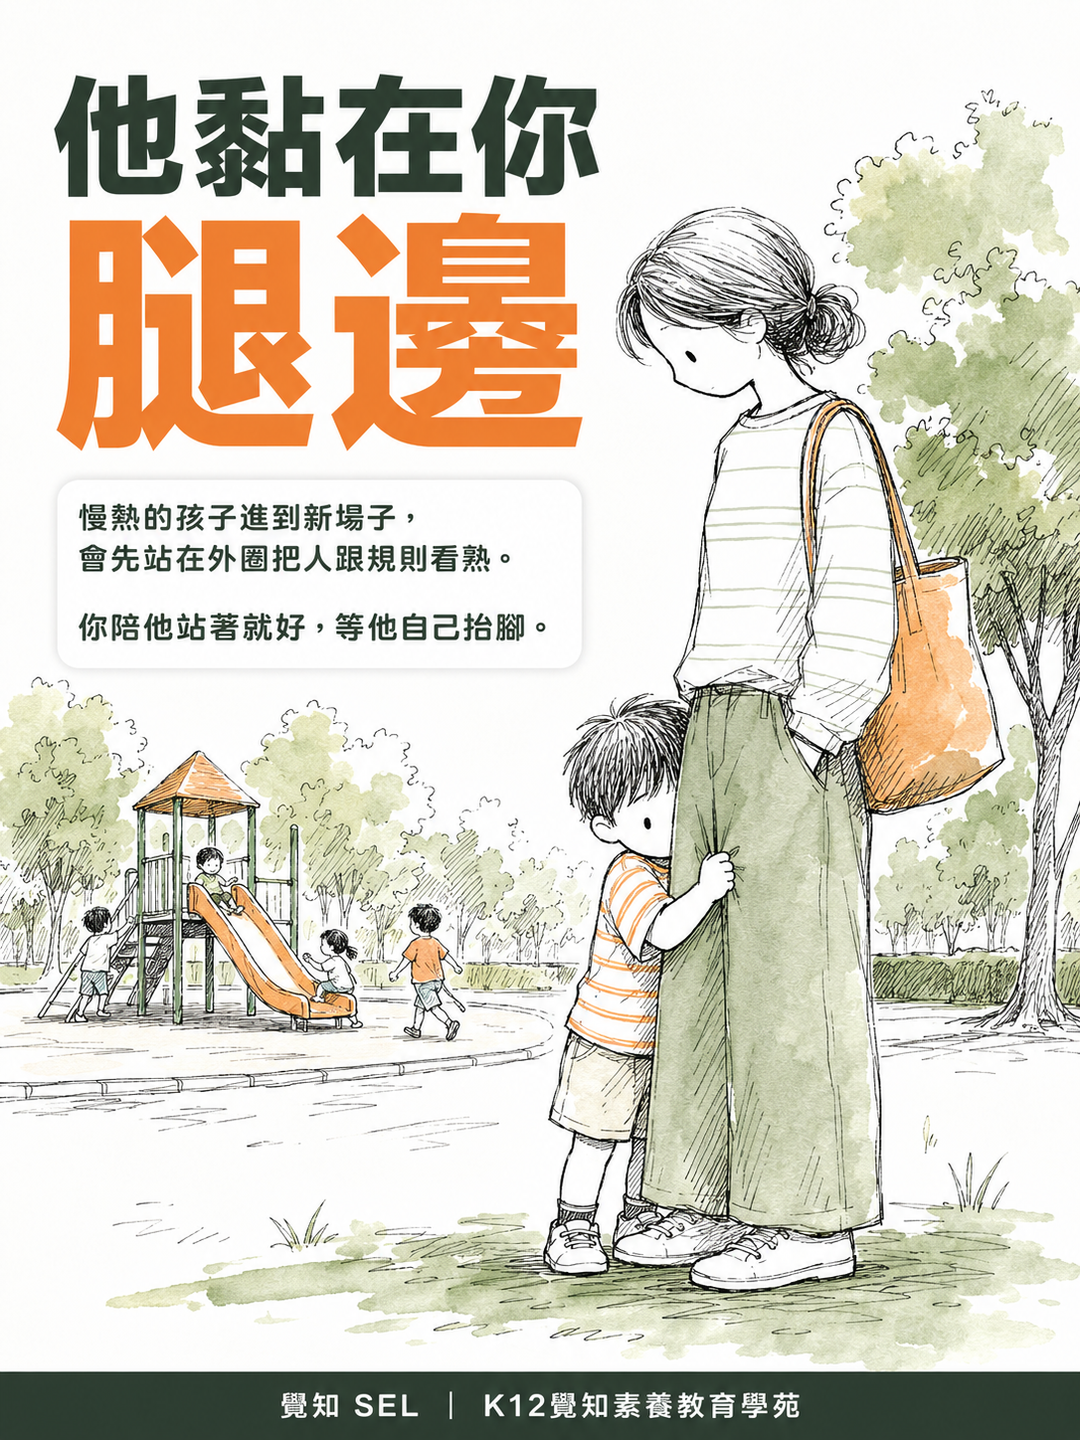
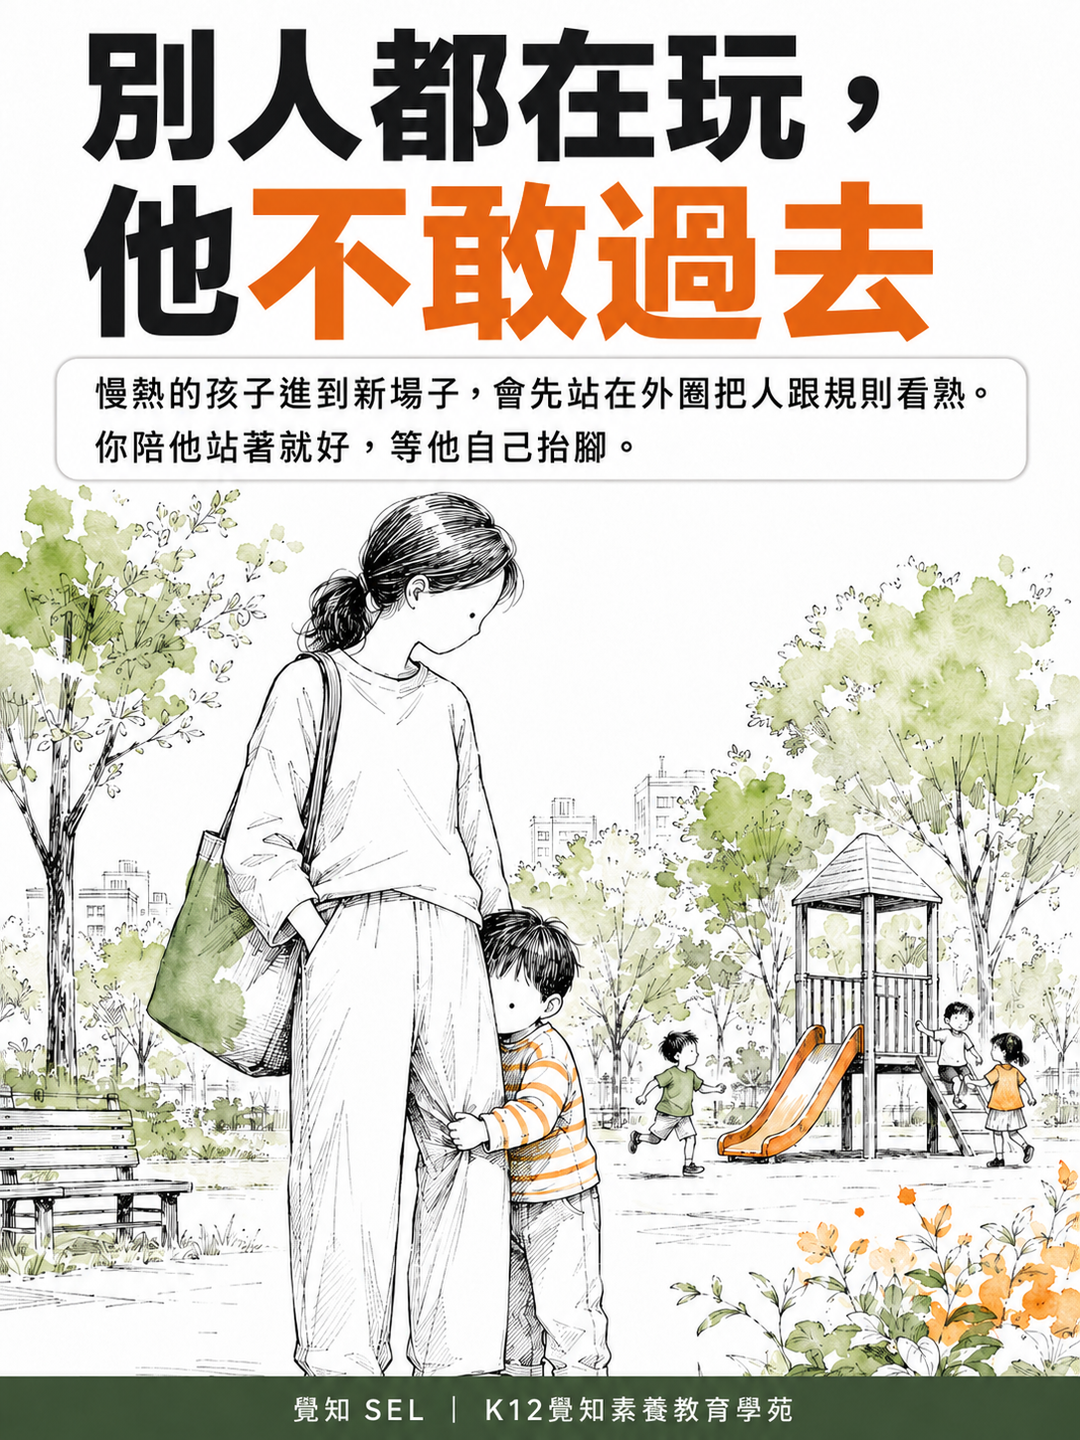
auto: dailynews update 2026-07-28 00:52 TW

diff --git a/2026-07/parenting_essence_2026-07-26.html b/2026-07/parenting_essence_2026-07-26.html
@@ -3,10 +3,10 @@
 <head>
   <meta charset="utf-8">
   <meta name="viewport" content="width=device-width, initial-scale=1.0">
-  <title>他黏在你腿邊，看別的小孩玩了二十分鐘——慢熱的孩子需要的，是一段站在旁邊把場面看熟的時間 ｜ 覺知教養．每日精華</title>
+  <title>別人都在玩，他不敢過去——慢熱的孩子需要的，是一段站在旁邊把場面看熟的時間 ｜ 覺知教養．每日精華</title>
   <meta name="description" content="八月開學倒數、幼兒園新生入園在即，公園裡別的小孩已經玩成一團，你四歲的孩子還抓著你的褲管，你越催他越往你身後躲。慢熱的孩子進到一個新的場子，習慣先待在外圈，把人跟規則看熟了才願意動。這一篇用白話聊：他站著不動的那二十分鐘其實在做什麼、「你就過去跟他們說要一起玩啊」這句話為什麼對一個四歲的孩子太大，以及你可以怎麼陪他站著、把眼前的事講給他聽，等他自己抬腳走過去。">
   <meta name="keywords" content="怕生,慢熱,不敢加入,黏人,幼兒社交,公園,3-6歲,啟蒙班,幼兒園,社會覺察,自我覺察,氣質,學前教育,同儕互動,交朋友,親子陪伴,家長焦慮,覺知教養,心智光譜,SEL,社會情緒學習">
-  <meta name="share-title" content="他黏在你腿邊">
+  <meta name="share-title" content="別人都在玩，他不敢過去">
   <meta name="share-tint" content="sage">
   <meta name="share-palette" content="orange-fade">
   <meta name="hero-title-pos" content="center">
@@ -2731,7 +2731,7 @@ body .body section {
 
 <!-- Open Graph -->
 <meta property="og:type" content="article">
-<meta property="og:title" content="他黏在你腿邊，看別的小孩玩了二十分鐘——慢熱的孩子需要的，是一段站在旁邊把場面看熟的時間">
+<meta property="og:title" content="別人都在玩，他不敢過去——慢熱的孩子需要的，是一段站在旁邊把場面看熟的時間">
 <meta property="og:description" content="八月開學倒數、幼兒園新生入園在即，公園裡別的小孩已經玩成一團，你四歲的孩子還抓著你的褲管，你越催他越往你身後躲。慢熱的孩子進到一個新的場子，習慣先待在外圈，把人跟規則看熟了才願意動。這一篇用白話聊：他站著不動的那二十分鐘其實在做什麼、「你就過去跟他們說要一起玩啊」這句話為什麼對一個四歲的孩子太大，以及你可以怎麼陪他站著、把眼前的事講給他聽，等他自己抬腳走過去。">
 <meta property="og:image" content="https://zway-education.github.io/education-dailynews/2026-07/parenting_essence_2026-07-26_share.png">
 <meta property="og:url" content="https://zway-education.github.io/education-dailynews/2026-07/parenting_essence_2026-07-26.html">
@@ -2743,7 +2743,7 @@ body .body section {
 
 <!-- Twitter Card -->
 <meta name="twitter:card" content="summary_large_image">
-<meta name="twitter:title" content="他黏在你腿邊">
+<meta name="twitter:title" content="別人都在玩，他不敢過去">
 <meta name="twitter:description" content="八月開學倒數、幼兒園新生入園在即，公園裡別的小孩已經玩成一團，你四歲的孩子還抓著你的褲管，你越催他越往你身後躲。慢熱的孩子進到一個新的場子，習慣先待在外圈，把人跟規則看熟了才願意動。這一篇用白話聊：他站著不動的那二十分鐘其實在做什麼、「你就過去跟他們說要一起玩啊」這句話為什麼對一個四歲的孩子太大，以及你可以怎麼陪他站著、把眼前的事講給他聽，等他自己抬腳走過去。">
 <meta name="twitter:image" content="https://zway-education.github.io/education-dailynews/2026-07/parenting_essence_2026-07-26_share.png">
 
@@ -2752,7 +2752,7 @@ body .body section {
 {
   "@context": "https://schema.org",
   "@type": "Article",
-  "headline": "他黏在你腿邊，看別的小孩玩了二十分鐘——慢熱的孩子需要的，是一段站在旁邊把場面看熟的時間",
+  "headline": "別人都在玩，他不敢過去——慢熱的孩子需要的，是一段站在旁邊把場面看熟的時間",
   "description": "八月開學倒數、幼兒園新生入園在即，公園裡別的小孩已經玩成一團，你四歲的孩子還抓著你的褲管，你越催他越往你身後躲。慢熱的孩子進到一個新的場子，習慣先待在外圈，把人跟規則看熟了才願意動。這一篇用白話聊：他站著不動的那二十分鐘其實在做什麼、「你就過去跟他們說要一起玩啊」這句話為什麼對一個四歲的孩子太大，以及你可以怎麼陪他站著、把眼前的事講給他聽，等他自己抬腳走過去。",
   "image": [
     "https://zway-education.github.io/education-dailynews/2026-07/parenting_essence_2026-07-26_share.png"
@@ -2785,13 +2785,13 @@ body .body section {
 
   <header class="head">
     <div class="tag">覺知教養 ｜ 每日精華</div>
-    <h1>他黏在你腿邊，看別的小孩玩了二十分鐘——慢熱的孩子需要的，是一段站在旁邊把場面看熟的時間</h1>
+    <h1>別人都在玩，他不敢過去——慢熱的孩子需要的，是一段站在旁邊把場面看熟的時間</h1>
     <div class="meta">
       <span class="datebadge">2026-07-26 ｜ 週日</span>
       <span class="age">覺知．啟蒙班（3-6 歲）</span>
       <span class="axis">覺知教養 ｜ 開學前的怕生慢熱 × 社會覺察</span>
     </div>
-    <div class="hook">「去玩啊，你去玩啊。」你低頭對著抓住你褲管的那隻小手說。星期天早上的公園，溜滑梯那邊已經擠了五、六個孩子，笑聲一陣一陣傳過來。你四歲的兒子把半張臉埋在你大腿邊，只露出一隻眼睛。你推了他的背一下，他抓得更緊。旁邊一個媽媽帶著孩子直接衝進去玩了，你聽見自己對空氣解釋了一句：「他就是比較慢熱。」講完心裡有點悶——已經來了二十分鐘，他一步都沒動。而八月就在眼前。再過幾個星期，他就要進幼兒園、走進一個全新的班上，身邊沒有你的褲管可以抓。你心裡那句沒說出口的是：那時候他怎麼辦？</div>
+    <div class="hook">「去玩啊，你去玩啊。」你低頭對著抓住你褲管的那隻小手說。星期天早上的公園，溜滑梯那邊已經擠了五、六個孩子，笑聲一陣一陣傳過來。你四歲的兒子整個人躲到你身後，只露出一隻眼睛。你推了他的背一下，他抓得更緊。旁邊一個媽媽帶著孩子直接衝進去玩了，你聽見自己對空氣解釋了一句：「他就是比較慢熱。」講完心裡有點悶——已經來了二十分鐘，他一步都沒動。而八月就在眼前。再過幾個星期，他就要進幼兒園、走進一個全新的班上，身邊沒有你的褲管可以抓。你心裡那句沒說出口的是：那時候他怎麼辦？</div>
   </header>
 
     <div class="share-card-inline" style="max-width:540px;margin:34px auto 6px;padding:0 22px;box-sizing:border-box;">
@@ -2811,7 +2811,7 @@ body .body section {
 
     <section>
       <h2>那天你沒有再推他，你陪他站著</h2>
-      <p>那天你把手放下來，沒有再說「去啊」。你蹲下來，跟他一起面對溜滑梯，然後把眼前正在發生的事一句一句講給他聽：「那個穿藍衣服的哥哥爬到最上面了。」「他們好像在排隊，一個一個下來。」「那個妹妹跌倒了，她自己站起來了欸。」</p><p>你講的全是他正在盯的東西，沒有要他回答，也沒有叫他過去。講到第五、六句，他從你腿邊挪出來半個身體，手還握著你的兩根手指，腳往前走了兩步。他小聲說了一句：「你陪我。」你說好，然後你們一起又往前挪了幾步。</p><p>慢熱的孩子需要的東西其實不複雜：一個穩穩待在旁邊、不催他的大人，加上足夠的時間把場面看熟。你的旁白幫他把一團亂的畫面整理成看得懂的規則——誰在做什麼、接下來會發生什麼。弄懂了，他才敢動。</p>
+      <p>那天你把手放下來，沒有再說「去啊」。你蹲下來，跟他一起面對溜滑梯，然後把眼前正在發生的事一句一句講給他聽：「那個穿藍衣服的哥哥爬到最上面了。」「他們好像在排隊，一個一個下來。」「那個妹妹跌倒了，她自己站起來了欸。」</p><p>你講的全是他正在盯的東西，沒有要他回答，也沒有叫他過去。講到第五、六句，他從你身後挪出來半個身體，手還握著你的兩根手指，腳往前走了兩步。他小聲說了一句：「你陪我。」你說好，然後你們一起又往前挪了幾步。</p><p>慢熱的孩子需要的東西其實不複雜：一個穩穩待在旁邊、不催他的大人，加上足夠的時間把場面看熟。你的旁白幫他把一團亂的畫面整理成看得懂的規則——誰在做什麼、接下來會發生什麼。弄懂了，他才敢動。</p>
     </section>
 
     <section>

diff --git a/index.html b/index.html
@@ -2987,8 +2987,8 @@ body{
   </a>
 <a class="card theme-orange" href="2026-07/parenting_essence_2026-07-26.html" data-axis="sun" data-age="cross">
     <div class="card-tags"><span class="age">覺知．啟蒙班（3-6 歲）</span><span class="axis">週日 ｜ 跨世代與家庭文化</span></div>
-    <h3 class="card-title">他黏在你腿邊，看別的小孩玩了二十分鐘——慢熱的孩子需要的，是一段站在旁邊把場面看熟的時間</h3>
-    <p class="card-hook">「去玩啊，你去玩啊。」你低頭對著抓住你褲管的那隻小手說。星期天早上的公園，溜滑梯那邊已經擠了五、六個孩子，笑聲一陣一陣傳過來。你四歲的兒子把半張臉埋在你大腿邊，只露出一隻眼睛。你推了他的背一下，他抓得更緊。旁邊一個媽媽帶著孩子直接衝進去玩了，你聽見自己對空氣解釋了一句：「他就是比較慢熱。」講完心裡有點悶——已經來了二十分鐘，他一步都沒動。而八月就在眼前。再過幾個星期，他就要進幼兒園、走進一個全新的班上，身邊沒有你的褲管可以抓。你心裡那句沒說出口的是：那時候他怎麼辦？</p>
+    <h3 class="card-title">別人都在玩，他不敢過去——慢熱的孩子需要的，是一段站在旁邊把場面看熟的時間</h3>
+    <p class="card-hook">「去玩啊，你去玩啊。」你低頭對著抓住你褲管的那隻小手說。星期天早上的公園，溜滑梯那邊已經擠了五、六個孩子，笑聲一陣一陣傳過來。你四歲的兒子整個人躲到你身後，只露出一隻眼睛。你推了他的背一下，他抓得更緊。旁邊一個媽媽帶著孩子直接衝進去玩了，你聽見自己對空氣解釋了一句：「他就是比較慢熱。」講完心裡有點悶——已經來了二十分鐘，他一步都沒動。而八月就在眼前。再過幾個星期，他就要進幼兒園、走進一個全新的班上，身邊沒有你的褲管可以抓。你心裡那句沒說出口的是：那時候他怎麼辦？</p>
     <span class="upload-date">2026-07-26&nbsp;&nbsp;週日</span>
     <span class="card-cta" style="margin-top:8px;">閱讀全文 &rarr;</span>
   </a>
